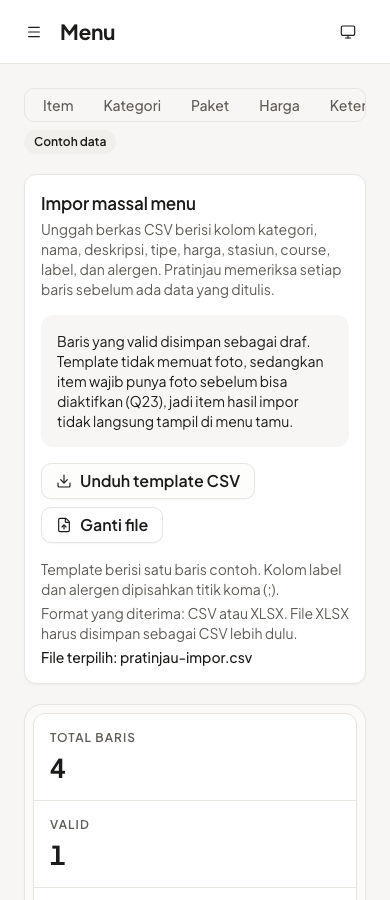
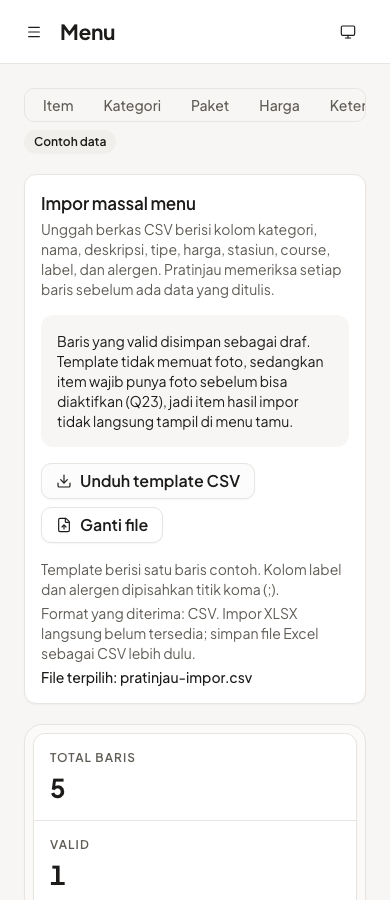
review(menu): strict rupiah parse, CSV only, tax note, photo-only print (legend-b6r)

Changed region(s): [[0.0923, 0.6533, 0.8308, 0.7778], [0.1231, 0.8089, 0.3385, 0.9956], [0.8615, 0.6533, 0.8923, 0.6844]]

diff --git a/apps/web/src/features/ws03-menu/components/menu-print-page.tsx b/apps/web/src/features/ws03-menu/components/menu-print-page.tsx
@@ -1,7 +1,8 @@
 // Printable menu (bead legend-b6r; PRD v1.7 §3 F8, §8 "Menu Cetak Otomatis"):
-// active items only, grouped by category, priced from the outlet's dine-in
-// list, with a large-print scale. Photos are omitted on purpose (ink-saving;
-// the schema has no required photo for the sheet). "Cetak / Simpan PDF" opens
+// guest-visible items only (Q23: active with a photo), grouped by category,
+// priced from the outlet's dine-in list, with a small photo per item and a
+// large-print scale. Prices exclude tax and service charge (tenant default
+// `prices_include_tax = false`), and the sheet says so. "Cetak / Simpan PDF" opens
 // the browser's print dialog — there is no server PDF. Print CSS copies the
 // approach from features/ws06-purchasing/components/purchase-order-print-page.tsx.
 import * as React from "react";
@@ -10,6 +11,7 @@ import { cn } from "cn";
 import { useT } from "@/components/i18n";
 import { Button } from "@/components/ui/button";
 import { EmptyState, ErrorState } from "@/components/ui/feedback-state";
+import { MediaPlate } from "@/components/ui/media-plate";
 import { Money } from "@/components/ui/money";
 import { SegmentedControl } from "@/components/ui/segmented-control";
 import { Skeleton } from "@/components/ui/skeleton";
@@ -40,16 +42,15 @@ function formatGeneratedAt(instant: Date): string {
   }).format(instant);
 }
 
-// Hide the management shell when printing. The light palette for the sheet is
-// selected only for print so a dark-mode preview remains legible on paper
-// (same rule as the purchase-order print sheet).
+// Hide the management shell when printing. In dark mode the print swaps to
+// dark ink on transparent paper (no accent-filled page background).
 const PRINT_STYLE = `@page { margin: 12mm; }
 @media print {
   body { background: transparent !important; }
   body * { visibility: hidden; }
   .menu-print-sheet, .menu-print-sheet * { visibility: visible; }
   .menu-print-sheet { position: absolute; inset: 0; width: 100%; max-width: none; margin: 0; padding: 0; }
-  .dark .menu-print-sheet { --foreground: var(--primary-foreground); --muted-foreground: var(--primary-foreground); --border: var(--primary-foreground); --background: var(--primary); color: var(--foreground); background: var(--background); }
+  .dark .menu-print-sheet { --foreground: var(--primary-foreground); --muted-foreground: var(--primary-foreground); --border: var(--primary-foreground); --background: transparent; --surface-3: transparent; color: var(--foreground); background: var(--background); }
   .menu-print-sheet .print-controls { display: none; }
 }`;
 
@@ -236,6 +237,9 @@ export function MenuPrintPage() {
                 })}
               </p>
             )}
+            <p className="text-sm text-muted-foreground">
+              {t("menuImport.print.taxNote")}
+            </p>
             <p className="text-sm text-muted-foreground tabular">
               {generatedLabel}
             </p>
@@ -252,8 +256,14 @@ export function MenuPrintPage() {
                 {section.rows.map(({ item, priceIdr }) => (
                   <li
                     key={item.id}
-                    className="grid grid-cols-[minmax(0,1fr)_auto] items-start gap-4 py-2"
+                    className="grid grid-cols-[auto_minmax(0,1fr)_auto] items-start gap-4 py-2"
                   >
+                    <MediaPlate
+                      src={item.mediaUrl}
+                      alt=""
+                      ratio="thumb"
+                      className={large ? "w-20" : "w-14"}
+                    />
                     <div className="min-w-0">
                       <p
                         className={cn(

diff --git a/apps/web/src/features/ws03-menu/import-lib.ts b/apps/web/src/features/ws03-menu/import-lib.ts
@@ -7,7 +7,7 @@
 // adding one is out of scope (recorded as a follow-up): quoted fields, doubled
 // quotes, CRLF/LF, comma or semicolon delimiter, BOM, and `;`-separated
 // label/allergen lists inside one cell.
-import { importRowSchema } from "@starter/shared/menu";
+import { importRowSchema, menuItemVisibleToGuests } from "@starter/shared/menu";
 import type { MenuImportRow, PriceList } from "@starter/shared/menu";
 
 /** The nine template columns, in template order (`importRowSchema`). */
@@ -121,12 +121,12 @@ export type PriceParseResult =
  * error instead of a silent rounding.
  */
 export function parsePriceIdr(value: string): PriceParseResult {
-  const normalized = value
-    .trim()
-    .replace(/^rp\.?\s*/i, "")
-    .replace(/[.\s]/g, "");
-  if (!/^\d+$/.test(normalized)) return { ok: false, code: "invalidPrice" };
-  const amount = Number(normalized);
+  const stripped = value.trim().replace(/^rp\.?\s*/i, "");
+  // Dots are accepted only as thousands separators in groups of three, so a
+  // decimal like "12.5" is rejected instead of silently becoming 125.
+  if (!/^\d+$/.test(stripped) && !/^\d{1,3}(\.\d{3})+$/.test(stripped))
+    return { ok: false, code: "invalidPrice" };
+  const amount = Number(stripped.replace(/\./g, ""));
   if (!Number.isSafeInteger(amount))
     return { ok: false, code: "priceTooLarge" };
   return { ok: true, value: amount };
@@ -548,6 +548,8 @@ export type PrintableItem = {
   categoryId: string;
   sortOrder: number;
   isActive: boolean;
+  mediaId?: string | null;
+  mediaUrl?: string | null;
 };
 
 export type PrintableSection = {
@@ -558,8 +560,9 @@ export type PrintableSection = {
 
 /**
  * Active items grouped by category for the printable menu (PRD §8 "Menu Cetak
- * Otomatis"): display order, empty categories omitted. Drafts (Q23 imported
- * rows) never reach the sheet because `isActive` is false.
+ * Otomatis"): display order, empty categories omitted. The sheet is
+ * guest-facing, so it applies the Q23 guest rule (`menuItemVisibleToGuests`):
+ * drafts (imported rows) and legacy active rows without a photo never print.
  */
 export function printableSections(input: {
   items: readonly PrintableItem[];
@@ -579,7 +582,10 @@ export function printableSections(input: {
     )
     .flatMap((category) => {
       const rows = input.items
-        .filter((item) => item.isActive && item.categoryId === category.id)
+        .filter(
+          (item) =>
+            menuItemVisibleToGuests(item) && item.categoryId === category.id,
+        )
         .sort(
           (left, right) =>
             left.sortOrder - right.sortOrder ||

diff --git a/e2e/legend-b6r.mock.spec.ts b/e2e/legend-b6r.mock.spec.ts
@@ -37,8 +37,13 @@ async function openImport(page: Page) {
     page.getByRole("heading", { name: "Impor massal menu" }),
   ).toBeVisible();
   await expect(
-    page.getByRole("button", { name: "Pilih file CSV/XLSX" }),
+    page.getByRole("button", { name: "Pilih file CSV" }),
   ).toBeVisible();
+  // XLSX is deferred (legend-az32): the picker offers CSV only.
+  await expect(page.locator('input[type="file"]')).toHaveAttribute(
+    "accept",
+    ".csv,text/csv",
+  );
 }
 
 async function uploadCsv(page: Page, name: string, content: string) {
@@ -97,15 +102,17 @@ test("F8 import template downloads the nine-column CSV and preview lists per-row
       "Kopi,Latte Uji Tipe,,c,25000,Kopi,drink,,",
       "Kopi,,Tanpa Nama,single,25000,Kopi,drink,,",
       "Tidak Ada,Teh Uji,,single,dua puluh,Kopi,drink,,",
+      // A decimal is never silently read as thousands dots (12.5 ≠ 125).
+      "Kopi,Latte Uji Desimal,,single,12.5,Kopi,drink,,",
     ),
   );
 
   const strip = page.getByRole("region", { name: "Ringkasan pratinjau" });
   await expect(strip).toBeVisible();
   await expect(strip.getByText("Total baris")).toBeVisible();
-  await expect(strip.getByText("4", { exact: true })).toBeVisible();
+  await expect(strip.getByText("5", { exact: true })).toBeVisible();
   await expect(strip.getByText("1", { exact: true })).toBeVisible();
-  await expect(strip.getByText("3", { exact: true })).toBeVisible();
+  await expect(strip.getByText("4", { exact: true })).toBeVisible();
 
   await expect(
     page.getByText("Tipe harus single atau combo (Item tunggal atau Paket)."),
@@ -118,7 +125,7 @@ test("F8 import template downloads the nine-column CSV and preview lists per-row
     page.getByText(
       "Harga harus bilangan bulat rupiah tanpa tanda baca, misalnya 25000.",
     ),
-  ).toBeVisible();
+  ).toHaveCount(2);
 
   // Only the one valid row is offered to the commit.
   await expect(
@@ -228,6 +235,16 @@ test("F8 printable menu renders categories, prices and large print", async ({
   ).toBeVisible();
   await expect(
     page.locator('.menu-print-sheet data[value="20000"]').first(),
+  ).toBeVisible();
+  // Owner note 12: menu prices exclude tax and service; the sheet says so.
+  await expect(
+    page
+      .locator("article[data-print-size]")
+      .getByText("Harga belum termasuk pajak dan service charge."),
+  ).toBeVisible();
+  // Q23: every printed item carries its photo.
+  await expect(
+    page.locator('article [data-slot="media-plate"] img').first(),
   ).toBeVisible();
 
   // The button opens the browser print dialog; no server PDF is involved.

diff --git a/apps/web/src/features/ws03-menu/components/import-page.tsx b/apps/web/src/features/ws03-menu/components/import-page.tsx
@@ -1,8 +1,8 @@
 // Menu bulk import screen (bead legend-b6r; PRD v1.7 §3 F8, §8 "Impor
 // Massal"). Template download, CSV preview with per-row validation, then an
-// explicit commit that creates drafts and appends their prices. XLSX is
-// accepted by the picker but cannot be parsed without a dependency, so the
-// screen says so and asks for a CSV instead of faking a preview.
+// explicit commit that creates drafts and appends their prices. CSV only:
+// XLSX parsing is deferred to bead legend-az32, so the picker offers .csv and
+// an .xlsx picked anyway gets a "save as CSV" message, never a fake preview.
 import * as React from "react";
 import { Link } from "@tanstack/react-router";
 import { useQuery } from "@tanstack/react-query";
@@ -250,6 +250,9 @@ function ImportPreview({
                 !online ||
                 committing ||
                 counts.valid === 0 ||
+                // A file-level problem (e.g. an unterminated quote) makes
+                // every row after it suspect: fix the file before importing.
+                analysis.fileIssues.length > 0 ||
                 !priceList ||
                 outcome !== null
               }
@@ -444,7 +447,8 @@ export function MenuImportPage() {
   }
 
   async function commit() {
-    if (!analysis || !priceList || committing) return;
+    if (!analysis || analysis.fileIssues.length > 0 || !priceList || committing)
+      return;
     setCommitting(true);
     setProgress({ done: 0, total: analysis.counts.valid });
     setOutcome(null);
@@ -454,8 +458,9 @@ export function MenuImportPage() {
         onProgress: (done, total) => setProgress({ done, total }),
       });
       setOutcome(result);
-      // Item list, availability and price grids all changed.
-      await refreshMenu();
+      // Item list, availability and price grids all changed. A failed
+      // refresh must not hide the outcome that is already on screen.
+      await refreshMenu().catch(() => undefined);
       void references.refetch();
     } finally {
       setCommitting(false);
@@ -518,7 +523,7 @@ export function MenuImportPage() {
             <input
               ref={inputRef}
               type="file"
-              accept=".csv,.xlsx"
+              accept=".csv,text/csv"
               className="sr-only"
               tabIndex={-1}
               aria-label={t("menuImport.import.uploadLabel")}

diff --git a/packages/shared/src/i18n/messages/ws03-menu-import.ts b/packages/shared/src/i18n/messages/ws03-menu-import.ts
@@ -5,7 +5,7 @@
 export const menuImportMessages = {
   title: "Impor & cetak menu",
   subtitle:
-    "Impor massal CSV/XLSX dengan pratinjau validasi per baris, dan menu cetak siap PDF.",
+    "Impor massal CSV dengan pratinjau validasi per baris, dan menu cetak siap PDF.",
   import: {
     title: "Impor massal menu",
     description:
@@ -16,10 +16,10 @@ export const menuImportMessages = {
     templateHint:
       "Template berisi satu baris contoh. Kolom label dan alergen dipisahkan titik koma (;).",
     uploadLabel: "Berkas impor menu",
-    upload: "Pilih file CSV/XLSX",
+    upload: "Pilih file CSV",
     changeFile: "Ganti file",
     acceptHint:
-      "Format yang diterima: CSV atau XLSX. File XLSX harus disimpan sebagai CSV lebih dulu.",
+      "Format yang diterima: CSV. Impor XLSX langsung belum tersedia; simpan file Excel sebagai CSV lebih dulu.",
     selectedFile: "File terpilih: {name}",
     reading: "Membaca berkas…",
     fileErrorTitle: "Berkas belum bisa diproses",
@@ -90,7 +90,7 @@ export const menuImportMessages = {
   print: {
     title: "Menu cetak",
     description:
-      "Menu aktif per kategori dengan harga dine-in. Harga dan ketersediaan terbaru ikut saat Anda menekan Buat ulang.",
+      "Menu aktif berfoto per kategori dengan harga dine-in. Harga dan ketersediaan terbaru ikut saat Anda menekan Buat ulang.",
     sizeLabel: "Ukuran huruf",
     sizeNormal: "Normal",
     sizeLarge: "Besar",
@@ -106,6 +106,7 @@ export const menuImportMessages = {
     emptyHint:
       "Aktifkan item beserta fotonya di Daftar item, lalu tekan Buat ulang untuk menyiapkan menu cetak.",
     noPrice: "Harga belum diisi",
+    taxNote: "Harga belum termasuk pajak dan service charge.",
     loading: "Menyiapkan menu cetak…",
     offline:
       "Anda sedang offline. Menu yang sudah dimuat tetap bisa dicetak; Buat ulang butuh koneksi.",

diff --git a/apps/web/src/features/ws06-purchasing/components/purchase-order-print-page.tsx b/apps/web/src/features/ws06-purchasing/components/purchase-order-print-page.tsx
@@ -18,7 +18,7 @@ const PRINT_STYLE = `@media print {
   body * { visibility: hidden; }
   .purchase-print-sheet, .purchase-print-sheet * { visibility: visible; }
   .purchase-print-sheet { position: absolute; inset: 0; width: 100%; max-width: none; margin: 0; padding: 12mm; }
-  .dark .purchase-print-sheet { --foreground: var(--primary-foreground); --muted-foreground: var(--primary-foreground); --border: var(--primary-foreground); --background: var(--primary); color: var(--foreground); background: var(--background); }
+  .dark .purchase-print-sheet { --foreground: var(--primary-foreground); --muted-foreground: var(--primary-foreground); --border: var(--primary-foreground); --background: transparent; color: var(--foreground); background: var(--background); }
   .purchase-print-sheet .print-controls { display: none; }
 }`;
 
